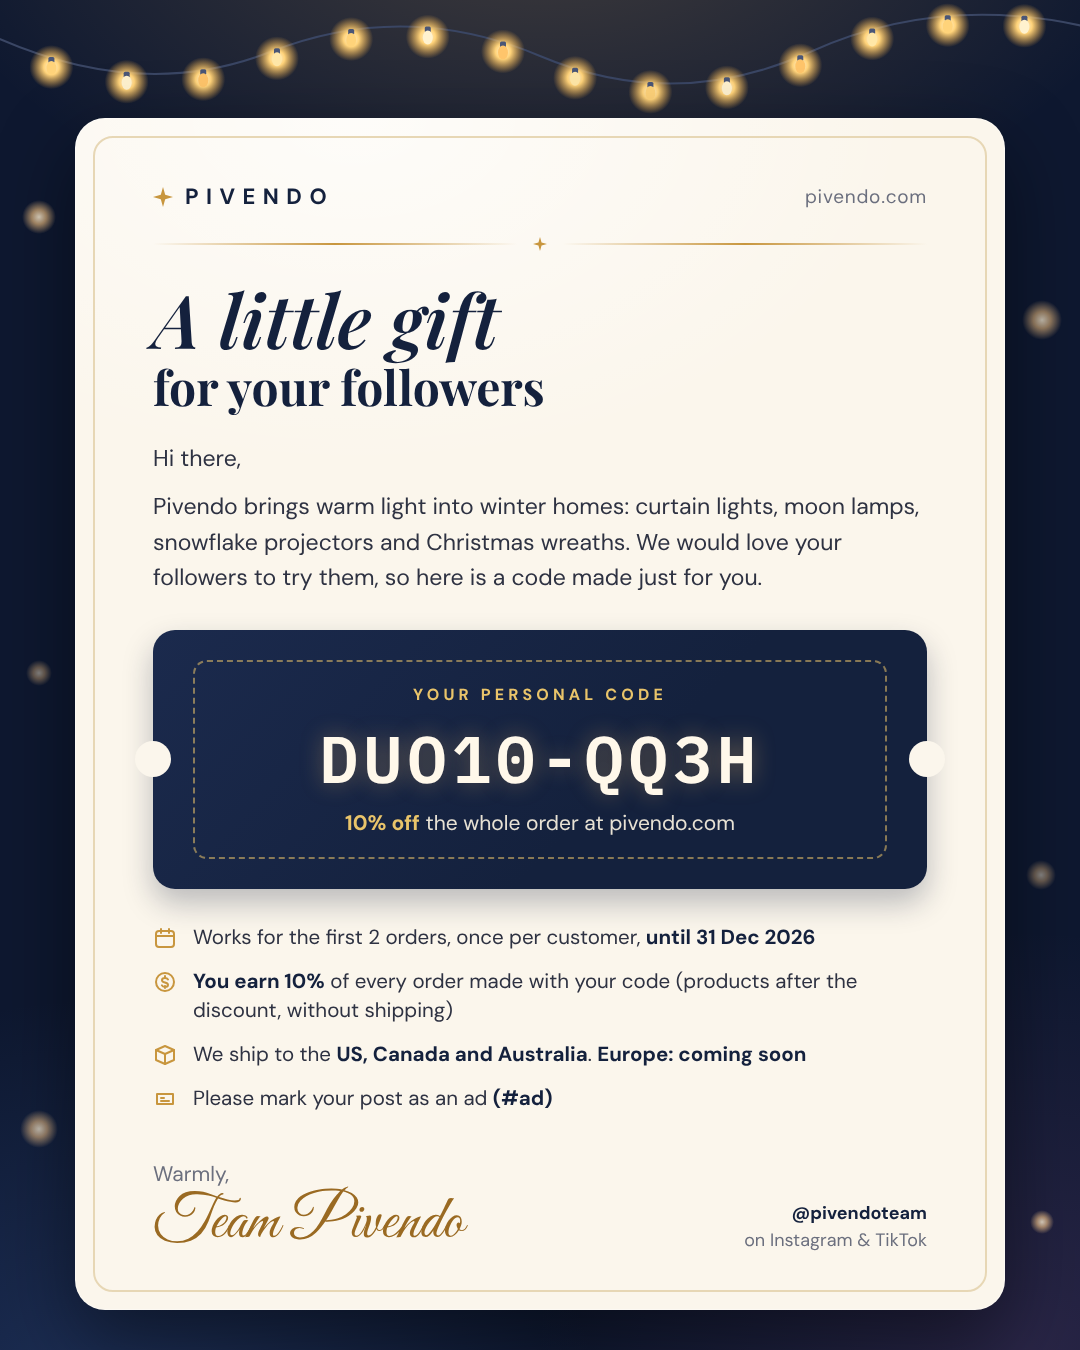
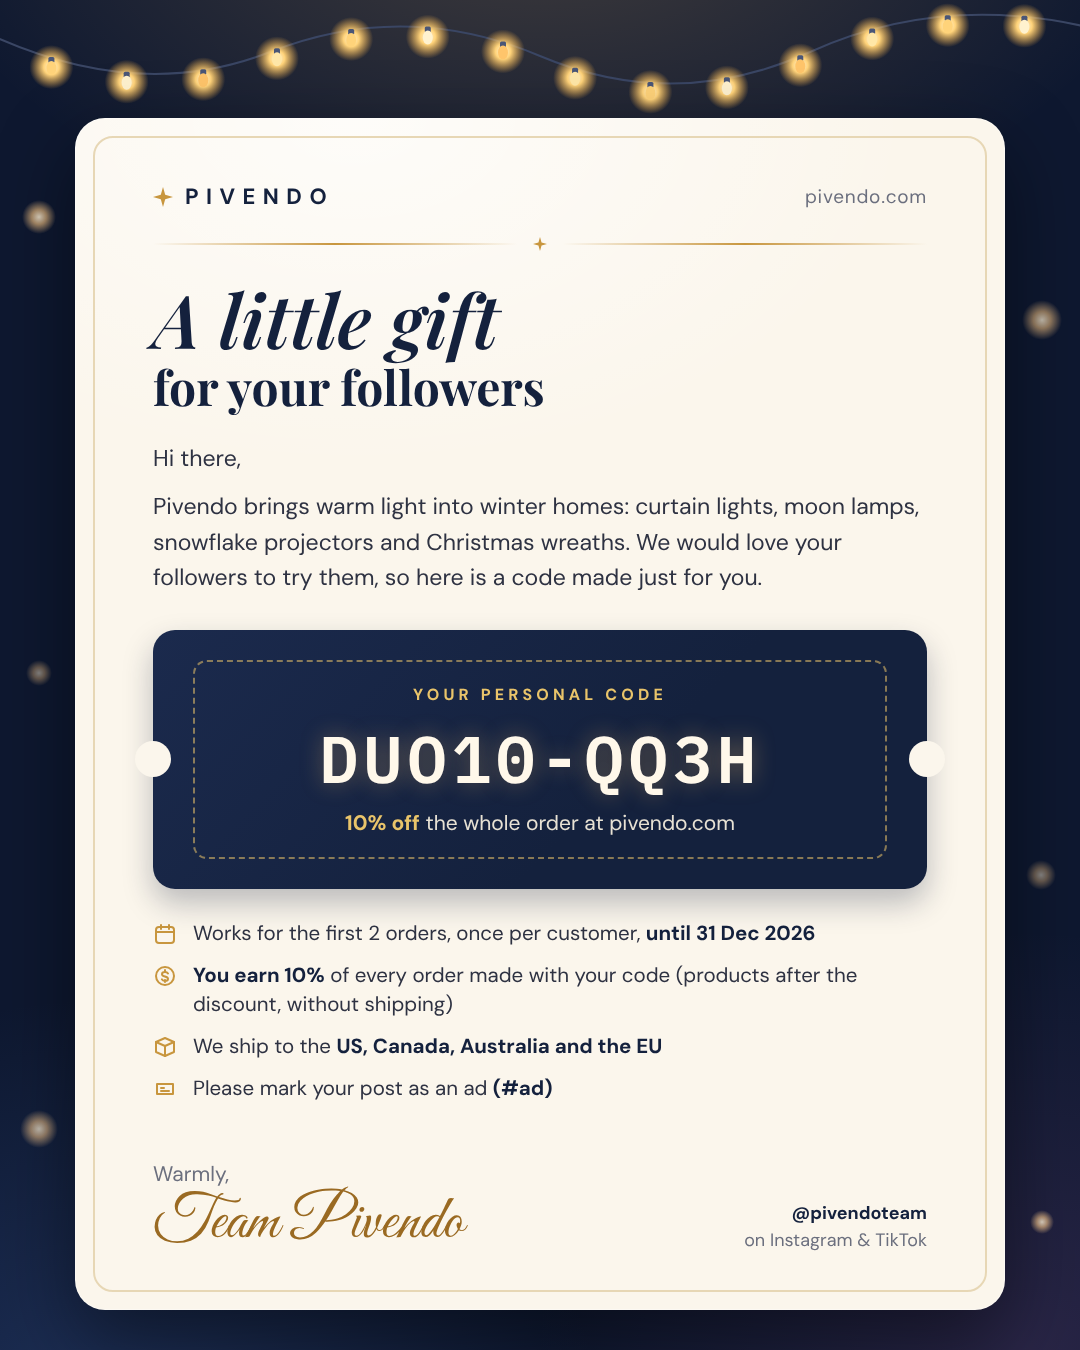
Pivendo letters: ships to the EU (owner confirmed EU live) + German versions
Claude-Session: https://claude.ai/code/session_01Cu2XFT52RjWLpve1VHTa31

Changed region(s): [[0.1222, 0.6844, 0.7944, 0.84]]

diff --git a/dropshipping/promo/influencer-letters/letter-de.html b/dropshipping/promo/influencer-letters/letter-de.html
@@ -1,0 +1,203 @@
+<!doctype html>
+<html lang="de">
+<head>
+<meta charset="utf-8">
+<link rel="preconnect" href="https://fonts.googleapis.com">
+<link href="https://fonts.googleapis.com/css2?family=Playfair+Display:ital,wght@0,600;0,700;1,500;1,600&family=DM+Sans:wght@400;500;700&family=IBM+Plex+Mono:wght@600&family=Great+Vibes&display=block" rel="stylesheet">
+<style>
+  :root {
+    --night: #0E1830;
+    --navy: #14213D;
+    --paper: #FBF6EC;
+    --line: #E7D7B5;
+    --gold: #C8963E;
+    --gold-soft: #E9C46A;
+    --ink: #2E3242;
+    --muted: #6B6F7E;
+    --glow: #FFC56B;
+  }
+  * { box-sizing: border-box; margin: 0; padding: 0; }
+  html, body { width: 1080px; height: 1350px; }
+  body {
+    position: relative;
+    overflow: hidden;
+    font-family: 'DM Sans', sans-serif;
+    color: var(--ink);
+    background:
+      radial-gradient(900px 520px at 50% -8%, rgba(255, 197, 107, 0.22), transparent 70%),
+      radial-gradient(700px 600px at 10% 105%, rgba(70, 110, 190, 0.28), transparent 70%),
+      radial-gradient(700px 600px at 95% 100%, rgba(150, 90, 160, 0.20), transparent 70%),
+      var(--night);
+  }
+  .bokeh { position: absolute; border-radius: 50%; mix-blend-mode: screen; background: radial-gradient(circle, rgba(255,240,205,1) 0%, rgba(255,197,107,0.75) 30%, rgba(255,170,70,0) 70%); }
+  .lights { position: absolute; left: 0; top: 0; width: 1080px; height: 150px; }
+
+  .card {
+    position: absolute;
+    left: 75px; top: 118px;
+    width: 930px; height: 1192px;
+    background:
+      radial-gradient(800px 500px at 30% 0%, rgba(255, 255, 255, 0.7), transparent 70%),
+      var(--paper);
+    border-radius: 30px;
+    box-shadow: 0 30px 80px rgba(0, 0, 0, 0.45), 0 0 0 1px rgba(255, 255, 255, 0.4) inset;
+    padding: 64px 78px 56px;
+    display: flex;
+    flex-direction: column;
+  }
+  .card::before {
+    content: "";
+    position: absolute; inset: 18px;
+    border: 2px solid var(--line);
+    border-radius: 20px;
+    pointer-events: none;
+  }
+  .head { display: flex; justify-content: space-between; align-items: center; }
+  .brand { display: flex; align-items: center; gap: 12px; font-weight: 700; font-size: 22px; letter-spacing: 0.34em; color: var(--navy); }
+  .site { font-size: 19px; color: var(--muted); letter-spacing: 0.04em; }
+  .rule { display: flex; align-items: center; gap: 16px; margin: 26px 0 30px; }
+  .rule span { flex: 1; height: 1.5px; background: linear-gradient(90deg, transparent, var(--gold), transparent); }
+
+  h1 { font-family: 'Playfair Display', serif; color: var(--navy); line-height: 1.02; }
+  h1 .a { display: block; font-style: italic; font-weight: 600; font-size: 74px; }
+  h1 .b { display: block; font-weight: 700; font-size: 48px; margin-top: 6px; }
+
+  .body { margin-top: 30px; font-size: 23px; line-height: 1.55; color: var(--ink); }
+  .body p + p { margin-top: 12px; }
+
+  .ticket {
+    position: relative;
+    margin-top: 34px;
+    background: linear-gradient(135deg, #1B2A4D, var(--navy) 60%);
+    border-radius: 22px;
+    padding: 30px 40px 30px;
+    text-align: center;
+    color: var(--paper);
+    box-shadow: 0 14px 30px rgba(20, 33, 61, 0.28);
+  }
+  .ticket::before, .ticket::after {
+    content: ""; position: absolute; top: 50%; width: 36px; height: 36px; margin-top: -18px;
+    border-radius: 50%; background: var(--paper);
+  }
+  .ticket::before { left: -18px; }
+  .ticket::after { right: -18px; }
+  .ticket .inner { border: 2px dashed rgba(233, 196, 106, 0.55); border-radius: 14px; padding: 22px 16px 20px; }
+  .ticket .label { font-size: 16px; font-weight: 700; letter-spacing: 0.26em; color: var(--gold-soft); }
+  .ticket .code { font-family: 'IBM Plex Mono', monospace; font-weight: 600; font-size: 66px; letter-spacing: 0.07em; margin: 10px 0 8px; color: #FFF8EA; text-shadow: 0 0 22px rgba(255, 197, 107, 0.35); }
+  .ticket .sub { font-size: 21px; color: #E8E2D4; }
+  .ticket .sub b { color: var(--gold-soft); font-weight: 700; }
+
+  .list { margin-top: 30px; display: flex; flex-direction: column; gap: 13px; }
+  .row { display: flex; gap: 16px; align-items: flex-start; font-size: 20.5px; line-height: 1.42; }
+  .row svg { flex: 0 0 auto; margin-top: 3px; }
+  .row b { color: var(--navy); }
+
+  .sign { margin-top: auto; padding-top: 22px; display: flex; justify-content: space-between; align-items: flex-end; }
+  .sign .warm { font-size: 21px; color: var(--muted); }
+  .sign .name { font-family: 'Great Vibes', cursive; font-size: 62px; color: #9A6A22; line-height: 1; margin-top: 4px; }
+  .sign .social { text-align: right; font-size: 18px; color: var(--muted); line-height: 1.5; }
+  .sign .social b { color: var(--navy); }
+</style>
+</head>
+<body>
+  <!-- warm bokeh -->
+  <div class="bokeh" style="left:22px;top:200px;width:34px;height:34px;opacity:.85"></div>
+  <div class="bokeh" style="left:1022px;top:300px;width:40px;height:40px;opacity:.75"></div>
+  <div class="bokeh" style="left:26px;top:660px;width:26px;height:26px;opacity:.5"></div>
+  <div class="bokeh" style="left:1026px;top:860px;width:30px;height:30px;opacity:.5"></div>
+  <div class="bokeh" style="left:20px;top:1110px;width:38px;height:38px;opacity:.75"></div>
+  <div class="bokeh" style="left:1030px;top:1210px;width:24px;height:24px;opacity:.85"></div>
+
+  <!-- string of fairy lights across the top -->
+  <svg class="lights" viewBox="0 0 1080 150" aria-hidden="true">
+    <defs>
+      <radialGradient id="bulb" cx="50%" cy="50%" r="50%">
+        <stop offset="0" stop-color="#FFF6DD"/>
+        <stop offset="0.35" stop-color="#FFD37A"/>
+        <stop offset="1" stop-color="#FFB547" stop-opacity="0"/>
+      </radialGradient>
+    </defs>
+    <path d="M -20 30 Q 135 105 270 52 T 540 56 T 810 52 T 1100 30" fill="none" stroke="#3A4664" stroke-width="2"/>
+    <g id="bulbs"></g>
+  </svg>
+
+  <div class="card">
+    <div class="head">
+      <div class="brand">
+        <svg width="20" height="20" viewBox="0 0 20 20" aria-hidden="true"><path d="M10 0 L12.2 7.8 L20 10 L12.2 12.2 L10 20 L7.8 12.2 L0 10 L7.8 7.8 Z" fill="#C8963E"/></svg>
+        PIVENDO
+      </div>
+      <div class="site">pivendo.com</div>
+    </div>
+    <div class="rule"><span></span>
+      <svg width="14" height="14" viewBox="0 0 20 20" aria-hidden="true"><path d="M10 0 L12.2 7.8 L20 10 L12.2 12.2 L10 20 L7.8 12.2 L0 10 L7.8 7.8 Z" fill="#C8963E"/></svg>
+    <span></span></div>
+
+    <h1><span class="a">Ein kleines Geschenk</span><span class="b">für deine Follower</span></h1>
+
+    <div class="body">
+      <p>Hallo,</p>
+      <p>Pivendo bringt warmes Licht in winterliche Wohnungen: Lichtervorhänge, Mondlampen, Schneeflocken-Projektoren und Weihnachtskränze. Wir würden uns freuen, wenn deine Follower sie ausprobieren. Deshalb gibt es hier einen Code nur für dich.</p>
+    </div>
+
+    <div class="ticket"><div class="inner">
+      <div class="label">DEIN PERSÖNLICHER CODE</div>
+      <div class="code">{{CODE}}</div>
+      <div class="sub"><b>10 % Rabatt</b> auf die ganze Bestellung bei pivendo.com</div>
+    </div></div>
+
+    <div class="list">
+      <div class="row">
+        <svg width="24" height="24" viewBox="0 0 24 24" fill="none" stroke="#C8963E" stroke-width="2" stroke-linecap="round" stroke-linejoin="round" aria-hidden="true"><rect x="3" y="5" width="18" height="16" rx="3"/><path d="M3 10h18M8 3v4M16 3v4"/></svg>
+        <div>{{USES}}, <b>bis 31.12.2026</b></div>
+      </div>
+      <div class="row">
+        <svg width="24" height="24" viewBox="0 0 24 24" fill="none" stroke="#C8963E" stroke-width="2" stroke-linecap="round" stroke-linejoin="round" aria-hidden="true"><circle cx="12" cy="12" r="9"/><path d="M15 9.5c-.6-1-1.7-1.5-3-1.5-1.7 0-3 .9-3 2.2 0 3 6 1.5 6 4.6 0 1.3-1.4 2.2-3 2.2-1.4 0-2.6-.6-3.1-1.6M12 6v2M12 16v2"/></svg>
+        <div><b>Du bekommst 10 %</b> von jeder Bestellung mit deinem Code (Warenwert nach Rabatt, ohne Versand)</div>
+      </div>
+      <div class="row">
+        <svg width="24" height="24" viewBox="0 0 24 24" fill="none" stroke="#C8963E" stroke-width="2" stroke-linecap="round" stroke-linejoin="round" aria-hidden="true"><path d="M3 7l9-4 9 4v10l-9 4-9-4z"/><path d="M3 7l9 4 9-4M12 11v10"/></svg>
+        <div>Wir liefern in die <b>USA, nach Kanada, Australien und in die EU</b></div>
+      </div>
+      <div class="row">
+        <svg width="24" height="24" viewBox="0 0 24 24" fill="none" stroke="#C8963E" stroke-width="2" stroke-linecap="round" stroke-linejoin="round" aria-hidden="true"><path d="M4 7h16v10H4z"/><path d="M8 11h3M8 14h8"/></svg>
+        <div>Bitte kennzeichne deinen Beitrag als Werbung <b>(#Werbung / Anzeige)</b></div>
+      </div>
+    </div>
+
+    <div class="sign">
+      <div>
+        <div class="warm">Herzliche Grüße,</div>
+        <div class="name">Team Pivendo</div>
+      </div>
+      <div class="social"><b>@pivendoteam</b><br>auf Instagram &amp; TikTok</div>
+    </div>
+  </div>
+
+  <script>
+    // place glowing bulbs along the wire
+    const path = document.querySelector('.lights path');
+    const g = document.getElementById('bulbs');
+    const len = path.getTotalLength();
+    const colors = ['#FFE7A8', '#FFD37A', '#FFF2CF', '#FFC56B'];
+    const n = 15;
+    for (let i = 1; i < n; i++) {
+      const p = path.getPointAtLength(len * i / n);
+      const glow = document.createElementNS('http://www.w3.org/2000/svg', 'circle');
+      glow.setAttribute('cx', p.x); glow.setAttribute('cy', p.y + 9);
+      glow.setAttribute('r', 22); glow.setAttribute('fill', 'url(#bulb)');
+      g.appendChild(glow);
+      const cap = document.createElementNS('http://www.w3.org/2000/svg', 'rect');
+      cap.setAttribute('x', p.x - 3); cap.setAttribute('y', p.y - 1);
+      cap.setAttribute('width', 6); cap.setAttribute('height', 6); cap.setAttribute('rx', 1.5);
+      cap.setAttribute('fill', '#4A5677');
+      g.appendChild(cap);
+      const bulb = document.createElementNS('http://www.w3.org/2000/svg', 'ellipse');
+      bulb.setAttribute('cx', p.x); bulb.setAttribute('cy', p.y + 10);
+      bulb.setAttribute('rx', 5); bulb.setAttribute('ry', 7);
+      bulb.setAttribute('fill', colors[i % colors.length]);
+      g.appendChild(bulb);
+    }
+  </script>
+</body>
+</html>

diff --git a/dropshipping/promo/influencer-letters/render.js b/dropshipping/promo/influencer-letters/render.js
@@ -5,25 +5,30 @@ const fs = require('fs');
 const path = require('path');
 
 const outDir = process.argv[2];
-const template = fs.readFileSync(path.join(__dirname, 'letter.html'), 'utf8');
+const en = fs.readFileSync(path.join(__dirname, 'letter.html'), 'utf8');
+const de = fs.readFileSync(path.join(__dirname, 'letter-de.html'), 'utf8');
+// To add a new promoter code: add one English and one German line here.
 const letters = [
-  { code: 'TEAM10-FHL3', uses: 'Works for the first 10 orders, once per customer' },
-  { code: 'DUO10-QQ3H', uses: 'Works for the first 2 orders, once per customer' },
-  { code: 'GIFT10-5LTH', uses: 'Works for 1 order' },
+  { template: en, name: 'Pivendo-letter', code: 'TEAM10-FHL3', uses: 'Works for the first 10 orders, once per customer' },
+  { template: en, name: 'Pivendo-letter', code: 'DUO10-QQ3H', uses: 'Works for the first 2 orders, once per customer' },
+  { template: en, name: 'Pivendo-letter', code: 'GIFT10-5LTH', uses: 'Works for 1 order' },
+  { template: de, name: 'Pivendo-Brief-DE', code: 'TEAM10-FHL3', uses: 'Gilt für die ersten 10 Bestellungen, einmal pro Kunde' },
+  { template: de, name: 'Pivendo-Brief-DE', code: 'DUO10-QQ3H', uses: 'Gilt für die ersten 2 Bestellungen, einmal pro Kunde' },
+  { template: de, name: 'Pivendo-Brief-DE', code: 'GIFT10-5LTH', uses: 'Gilt für 1 Bestellung' },
 ];
 
 (async () => {
   const browser = await chromium.launch();
   for (const l of letters) {
     const page = await browser.newPage({ viewport: { width: 1080, height: 1350 }, deviceScaleFactor: 1 });
-    const html = template.replace('{{CODE}}', l.code).replace('{{USES}}', l.uses);
+    const html = l.template.replace('{{CODE}}', l.code).replace('{{USES}}', l.uses);
     await page.setContent(html, { waitUntil: 'networkidle' });
     await page.evaluate(() => document.fonts.ready);
     const overflow = await page.evaluate(() => {
       const card = document.querySelector('.card');
       return card.scrollHeight - card.clientHeight;
     });
-    const file = path.join(outDir, `Pivendo-letter-${l.code}.png`);
+    const file = path.join(outDir, `${l.name}-${l.code}.png`);
     const bulbs = await page.evaluate(() => document.querySelectorAll('#bulbs ellipse').length);
     await page.screenshot({ path: file });
     await page.close();

diff --git a/dropshipping/promo/influencer-letters/letter.html b/dropshipping/promo/influencer-letters/letter.html
@@ -87,12 +87,12 @@
   .ticket .sub { font-size: 21px; color: #E8E2D4; }
   .ticket .sub b { color: var(--gold-soft); font-weight: 700; }
 
-  .list { margin-top: 34px; display: flex; flex-direction: column; gap: 15px; }
+  .list { margin-top: 30px; display: flex; flex-direction: column; gap: 13px; }
   .row { display: flex; gap: 16px; align-items: flex-start; font-size: 20.5px; line-height: 1.42; }
   .row svg { flex: 0 0 auto; margin-top: 3px; }
   .row b { color: var(--navy); }
 
-  .sign { margin-top: auto; display: flex; justify-content: space-between; align-items: flex-end; }
+  .sign { margin-top: auto; padding-top: 22px; display: flex; justify-content: space-between; align-items: flex-end; }
   .sign .warm { font-size: 21px; color: var(--muted); }
   .sign .name { font-family: 'Great Vibes', cursive; font-size: 62px; color: #9A6A22; line-height: 1; margin-top: 4px; }
   .sign .social { text-align: right; font-size: 18px; color: var(--muted); line-height: 1.5; }
@@ -157,7 +157,7 @@
       </div>
       <div class="row">
         <svg width="24" height="24" viewBox="0 0 24 24" fill="none" stroke="#C8963E" stroke-width="2" stroke-linecap="round" stroke-linejoin="round" aria-hidden="true"><path d="M3 7l9-4 9 4v10l-9 4-9-4z"/><path d="M3 7l9 4 9-4M12 11v10"/></svg>
-        <div>We ship to the <b>US, Canada and Australia</b>. <b>Europe: coming soon</b></div>
+        <div>We ship to the <b>US, Canada, Australia and the EU</b></div>
       </div>
       <div class="row">
         <svg width="24" height="24" viewBox="0 0 24 24" fill="none" stroke="#C8963E" stroke-width="2" stroke-linecap="round" stroke-linejoin="round" aria-hidden="true"><path d="M4 7h16v10H4z"/><path d="M8 11h3M8 14h8"/></svg>
